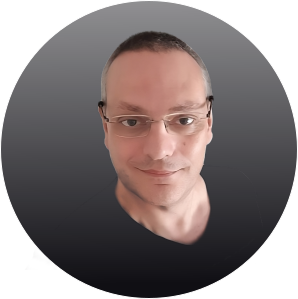
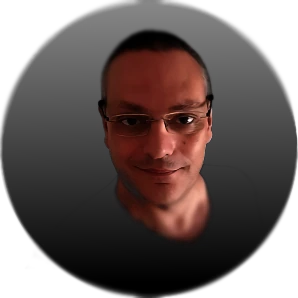
..

diff --git a/styles/index.css b/styles/index.css
@@ -51,18 +51,20 @@ main {
   top: 50%;
   left: 50%;
   transform: translate(-50%, -50%);
-  gap: 1rem;
 }
 
 .my-img {
   width: 10rem;
+  margin-bottom: 1rem;
+  border-radius: 100%;
+  border: 0.2rem solid var(--info-color);
 }
 
 .cta-btn {
   padding: 1rem 2rem;
   background-color: blue;
   border-radius: var(--border-radius);
-  border: 0.3rem solid var(--info-color);
+  border: 0.2rem solid var(--info-color);
   text-decoration: none;
   text-align: center;
   font-weight: bold;
